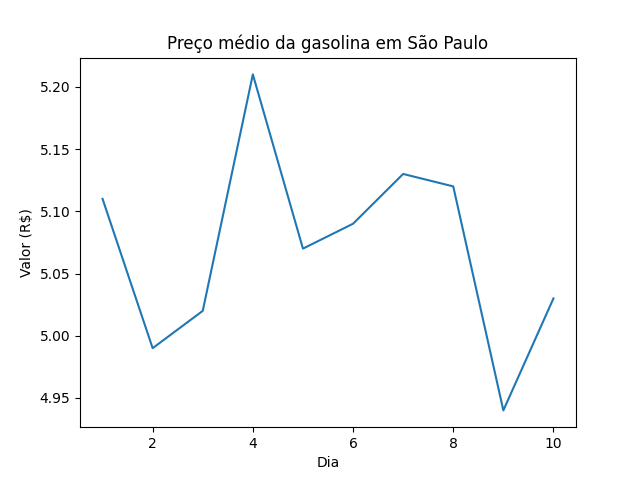
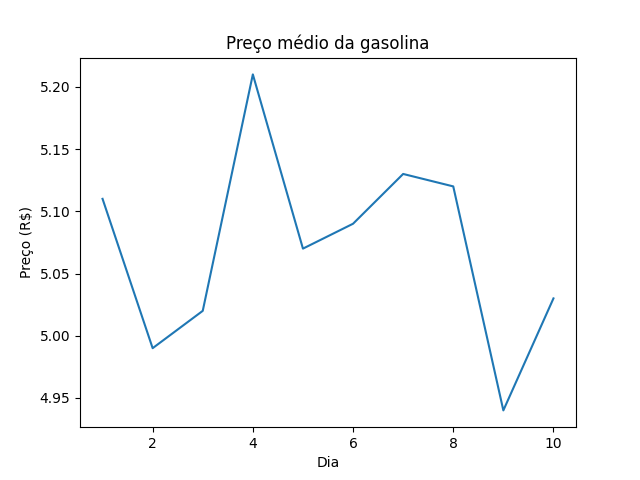
Mudanças estéticas no gráfico gasolina.pnp

Changed region(s): [[0.25, 0.0625, 0.75, 0.125], [0.0312, 0.4375, 0.0625, 0.5938]]

diff --git a/gasolina.py b/gasolina.py
@@ -1,7 +1,7 @@
 import pandas as pd
 import seaborn as sns
 
-gasolina_pd = pd.read_csv('gasolina.csv')
-grafico = sns.lineplot(data=gasolina_pd, x='dia', y='venda', palette='pastel')
-grafico.set(title='Preço médio da gasolina em São Paulo', xlabel='Dia', ylabel='Valor (R$)')
+gas_pd = pd.read_csv('/content/Ebac-Git/gasolina.csv')
+grafico = sns.lineplot(data=gas_pd, x='dia', y='venda', palette='dark')
+grafico.set(title='Preço médio da gasolina', xlabel='Dia', ylabel='Preço (R$)')
 grafico.figure.savefig('gasolina.png')
